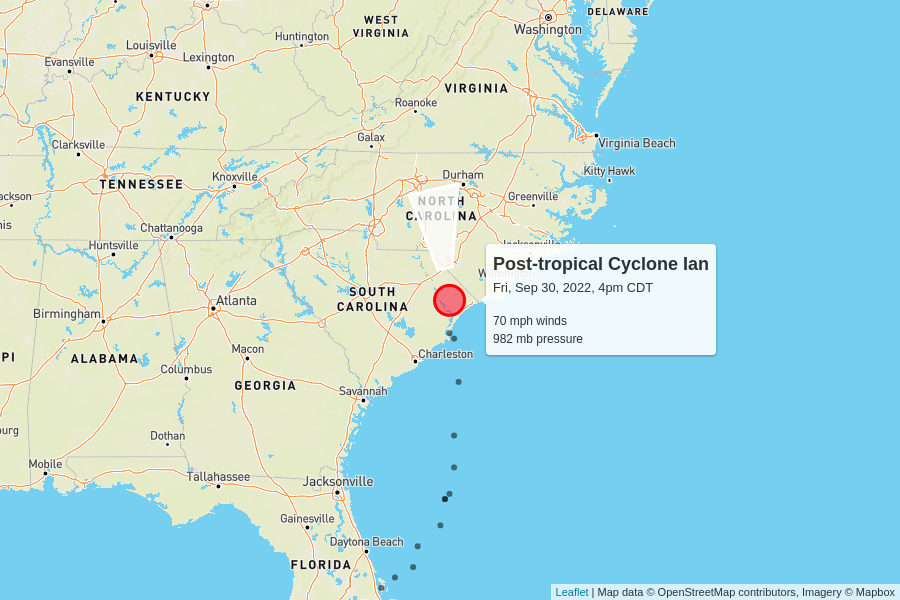
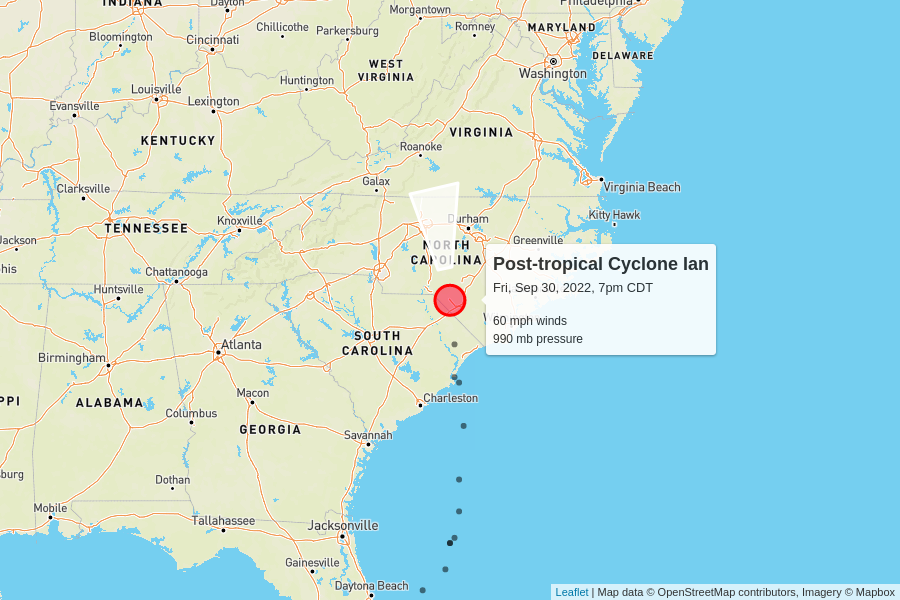
automatic update

Changed region(s): [[0.0, 0.0, 0.7778, 1.0]]

diff --git a/docs/index.html b/docs/index.html
@@ -100,7 +100,7 @@
         <td colspan="6" class="storm category-0" >
           <h2>
             Post-tropical Cyclone Ian
-            <p class="updated">last updated <span data-time>2022-09-30T21:00:00.000Z</span></p>
+            <p class="updated">last updated <span data-time>2022-10-01T00:00:00.000Z</span></p>
           </h2>
         </td>
       </tr>
@@ -115,8 +115,8 @@
       </tr>
       <tr>
         <td class="spacer"></td>
-        <td>70 mph</td>
-        <td>982 mb</td>
+        <td>60 mph</td>
+        <td>990 mb</td>
         <td>
           15 mph to the north
           <br/>
